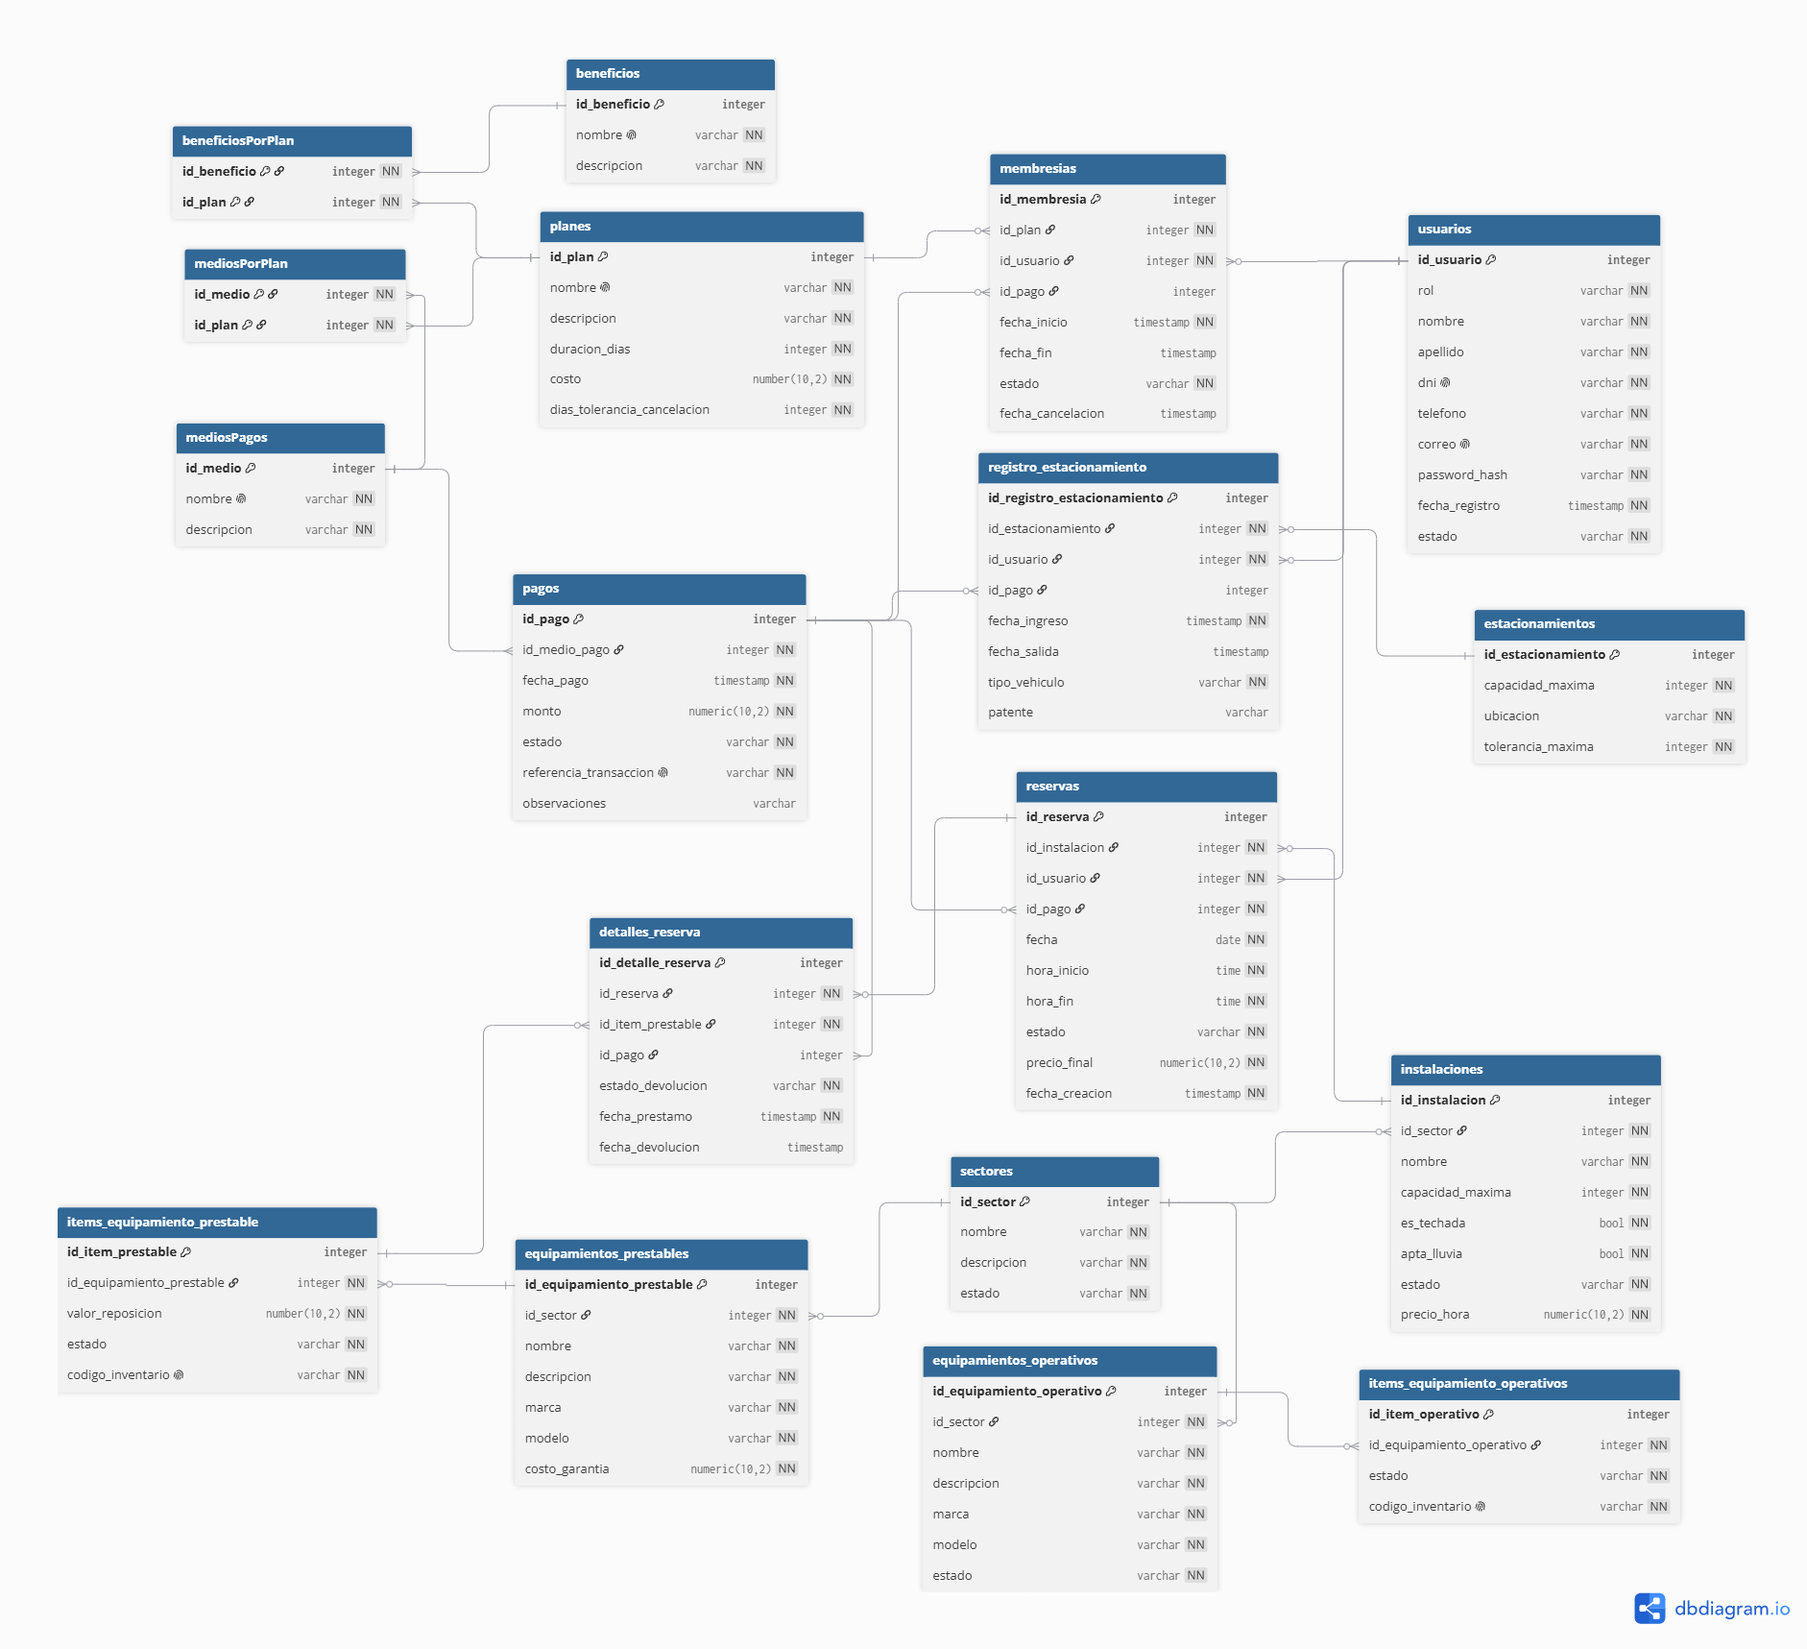
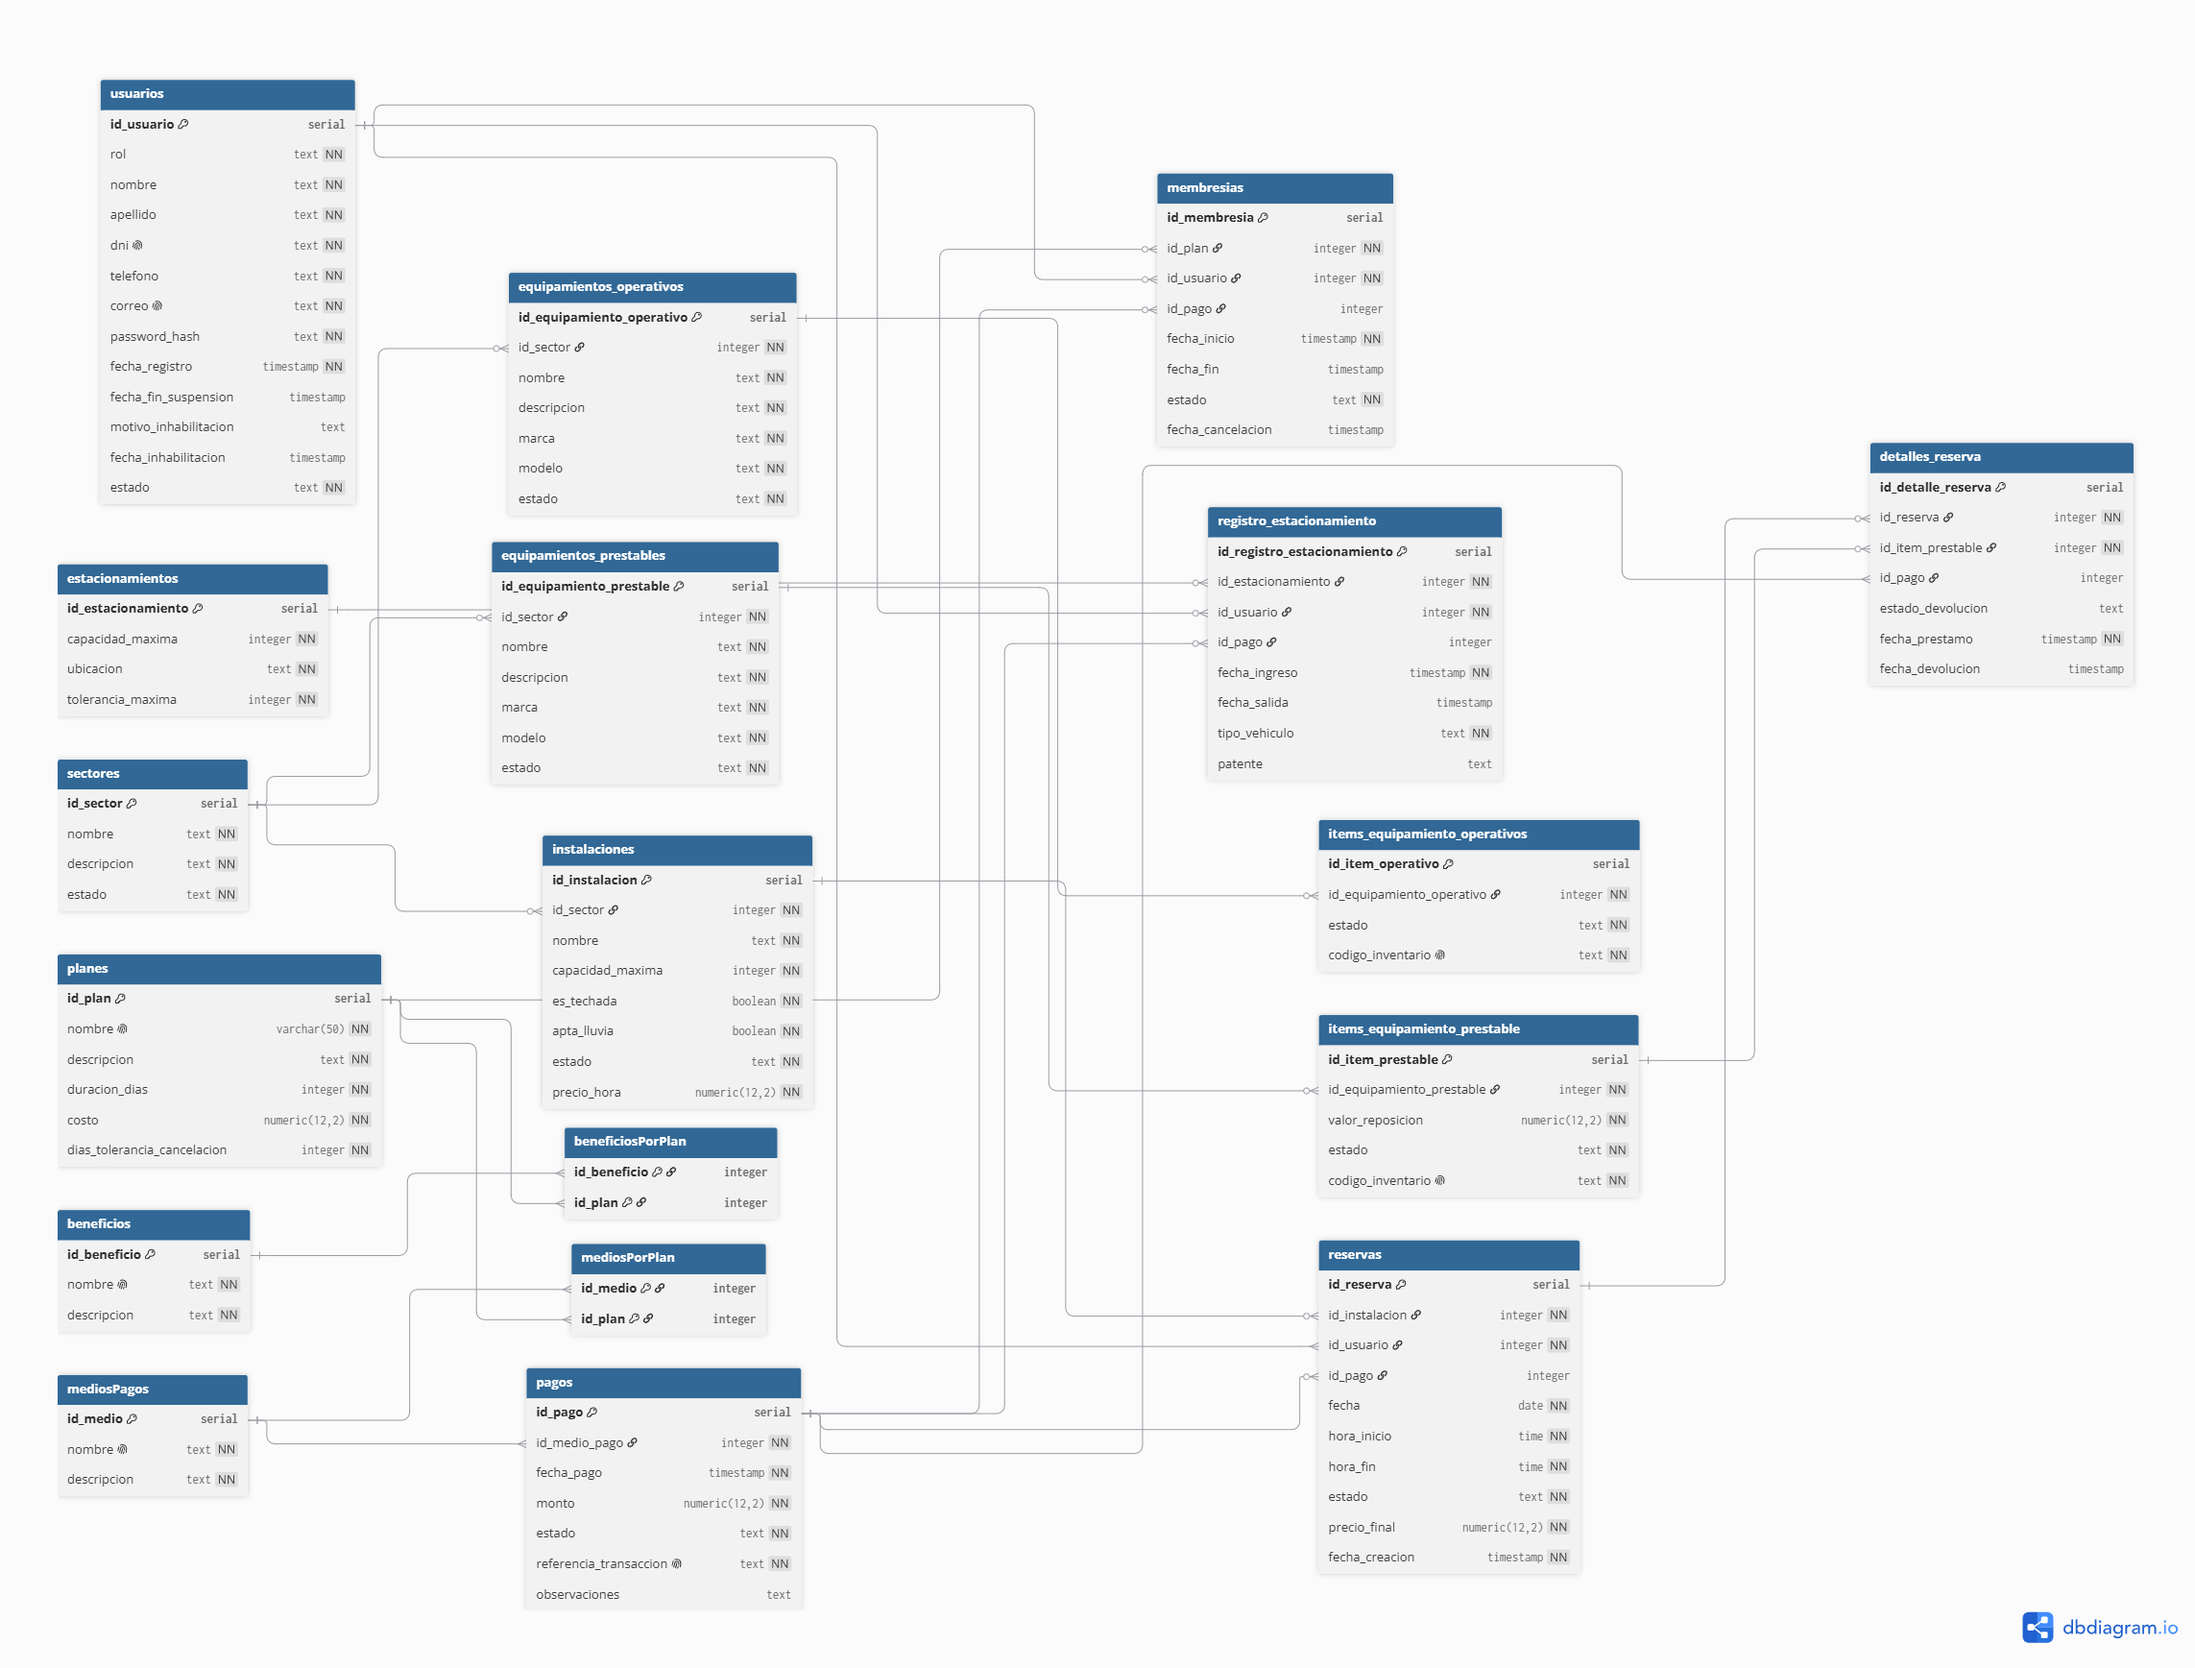
acutalizacion del DER (04)

diff --git a/docs/02-reglas-de-negocio.md b/docs/02-reglas-de-negocio.md
@@ -53,7 +53,7 @@ La reserva quedara a nombre del cliente que se encuentre logueado al momento de 
 
 ### Descripcion
 
-Solo se podra cancelar una reserva 24 horas antes de iniciado el turno, pasado esas 24 horas se cobrara el 50% del valor inicial
+Si el cliente cancela una reserva dentro de las ultimas 24 horas para el inicio de la misma, se procedera a cobrar el 50% del valor inicial de esta, caso contrario, no se cobrara.
 
 ## RN-010 Maximas reservas disponibles
 
